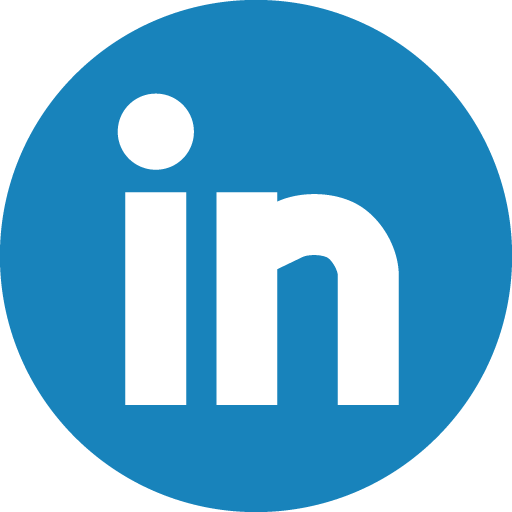
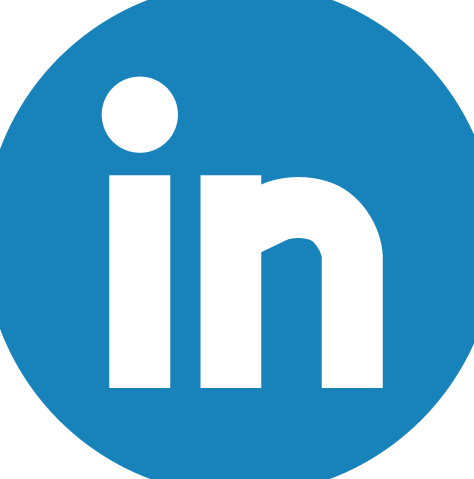
change footer style

diff --git a/index.html b/index.html
@@ -27,7 +27,7 @@
                 <ul>
                     <h1>Edris Danesh</h1>
                     <li><p>Hello Dear friends I'm a web developer. I graduated from Hreat <strong>University, Software Engineering </strong> faculty in 2022.</p></li>
-                    <li><p>It's great to meet you all and please feel free to connect with me on <em><strong>linkedIn Twitter and GitHub</strong></em> after meeting.</p></li>
+                    <li><p>It's great to meet you all and please feel free to connect with me on <em><strong>linkedIn Twitter and GitHub</strong></em>.</p></li>
                     <li><p>It has been a pleasure introducing myself and I am excited for this opportunity to work with you.</p></li>
                     <li><p>I look forward to joining the Team and working with you.</p></li>
                 </ul>
@@ -57,36 +57,39 @@
                 <h1>Contact Us</h1>
                 <h3>Fill out the form below to learn more!</h3>
             </div>
-            <form action="https://httpbin.org/get" method="get">
-                <div class="contact__fieldset">
-                    <p> 
-                        <label class="contact-label" for="Name">Name:</label> 
-                        <input class="contact-input" type="text" placeholder="your name">
-                    </p>
-                    <p >
-                        <label class="contact-label" for="emalil" >Email:</label> 
-                        <input class="contact-input" type="email" placeholder="example@gmail.com" required>
-                    </p>
-                        <label class="contact-label" for="message">Message:</label>
-                        <textarea class="contact-textarea" name="Message" id="message" placeholder="leave a message" cols="70" rows="5"></textarea>
-                        <button type="submit" class="contact-button">Submit</button>
-                </div>
-            </form>
-        </div>
-        <div id="myClock" class="clock" onload="showTime()">
-            <h2>clock</h2>
-            
-        </div>
+            <div class="contact-form">
+                <form action="https://httpbin.org/get" method="get">
+                    <div class="contact__fieldset">
+                        <p> 
+                            <label class="contact-label" for="Name">Name:</label> 
+                            <input class="contact-input" type="text" placeholder="your name">
+                        </p>
+                        <p >
+                            <label class="contact-label" for="emalil" >Email:</label> 
+                            <input class="contact-input" type="email" placeholder="example@gmail.com" required>
+                        </p>
+                            <label class="contact-label" for="message">Message:</label>
+                            <textarea class="contact-textarea" name="Message" id="message" placeholder="leave a message" cols="70" rows="5"></textarea>
+                            <button type="submit" class="contact-button">Submit</button>
+                    </div>
+                </form>
+            </div>
+            </div>
+            <div id="myClock" class="clock" onload="showTime()">
+                <h2>clock</h2>
+                
+            </div>
     </div>
     
         <sectio class="footer"> 
-            <div class="footer-content">Follow Us
+            
             <div class="social">
-                <a href="#" class="twitter"><img src="img/twitter.png " alt="towitter image"></a>
-                <a href="#" class="insta"><img src="img/intagram.png" alt="instagram image"></a>
-                <a href="#" class="linkedin"><img src="img/linkedIn.png" alt="linkedin image"></a>
+                <div class="footer-content"> <h2>Follow Me!</h2>
+                <a href="#" id="twitter"><img src="img/twitter.png " alt="towitter image" width="60px" height="60px"></a>
+                    <a href="#" class="insta"><img src="img/intagram.png" alt="instagram image" width="50px" height="50px"></a>
+                    <a href="#" class="linkedin"><img src="img/linkedIn.png" alt="linkedin image" width="50px" height="50px"></a>
+                </div>
             </div>
-        </div>
         </sectio>
     <script src="js/lightbox-plus-jquery.js"></script>
     <script src="js/app.js"></script>

diff --git a/css/main.css b/css/main.css
@@ -118,7 +118,7 @@ header{
     margin-top: 2rem;
     padding-bottom: 2rem;
 }
-#contactUs form{
+#contactUs .contact-form{
     justify-content: center;
     display: flex;
 }
@@ -137,6 +137,7 @@ header{
 .contact-label{
     display: block;
     font-weight: bold;
+    padding:5px;
 }
 .contact-input,.contact-textarea{
     padding: 0.8em;
@@ -162,15 +163,17 @@ header{
     background-color: #11164B;
     color: #FFF;
     text-align: center;
-    padding: 10px;
-    height: 100px;
+    padding: 20px 5px 30px 5px;
+    height: 150px;
 }
 .social a img{
-    width: 50px;
-    height: 50px;
     border-radius: 50%;
     padding: 20px;
     transition: 1s;
+}
+.social a #twitter{
+    width: 80px;
+    height: 80px;
 }
 .social a img:hover{
     transform: scale(1.1);
